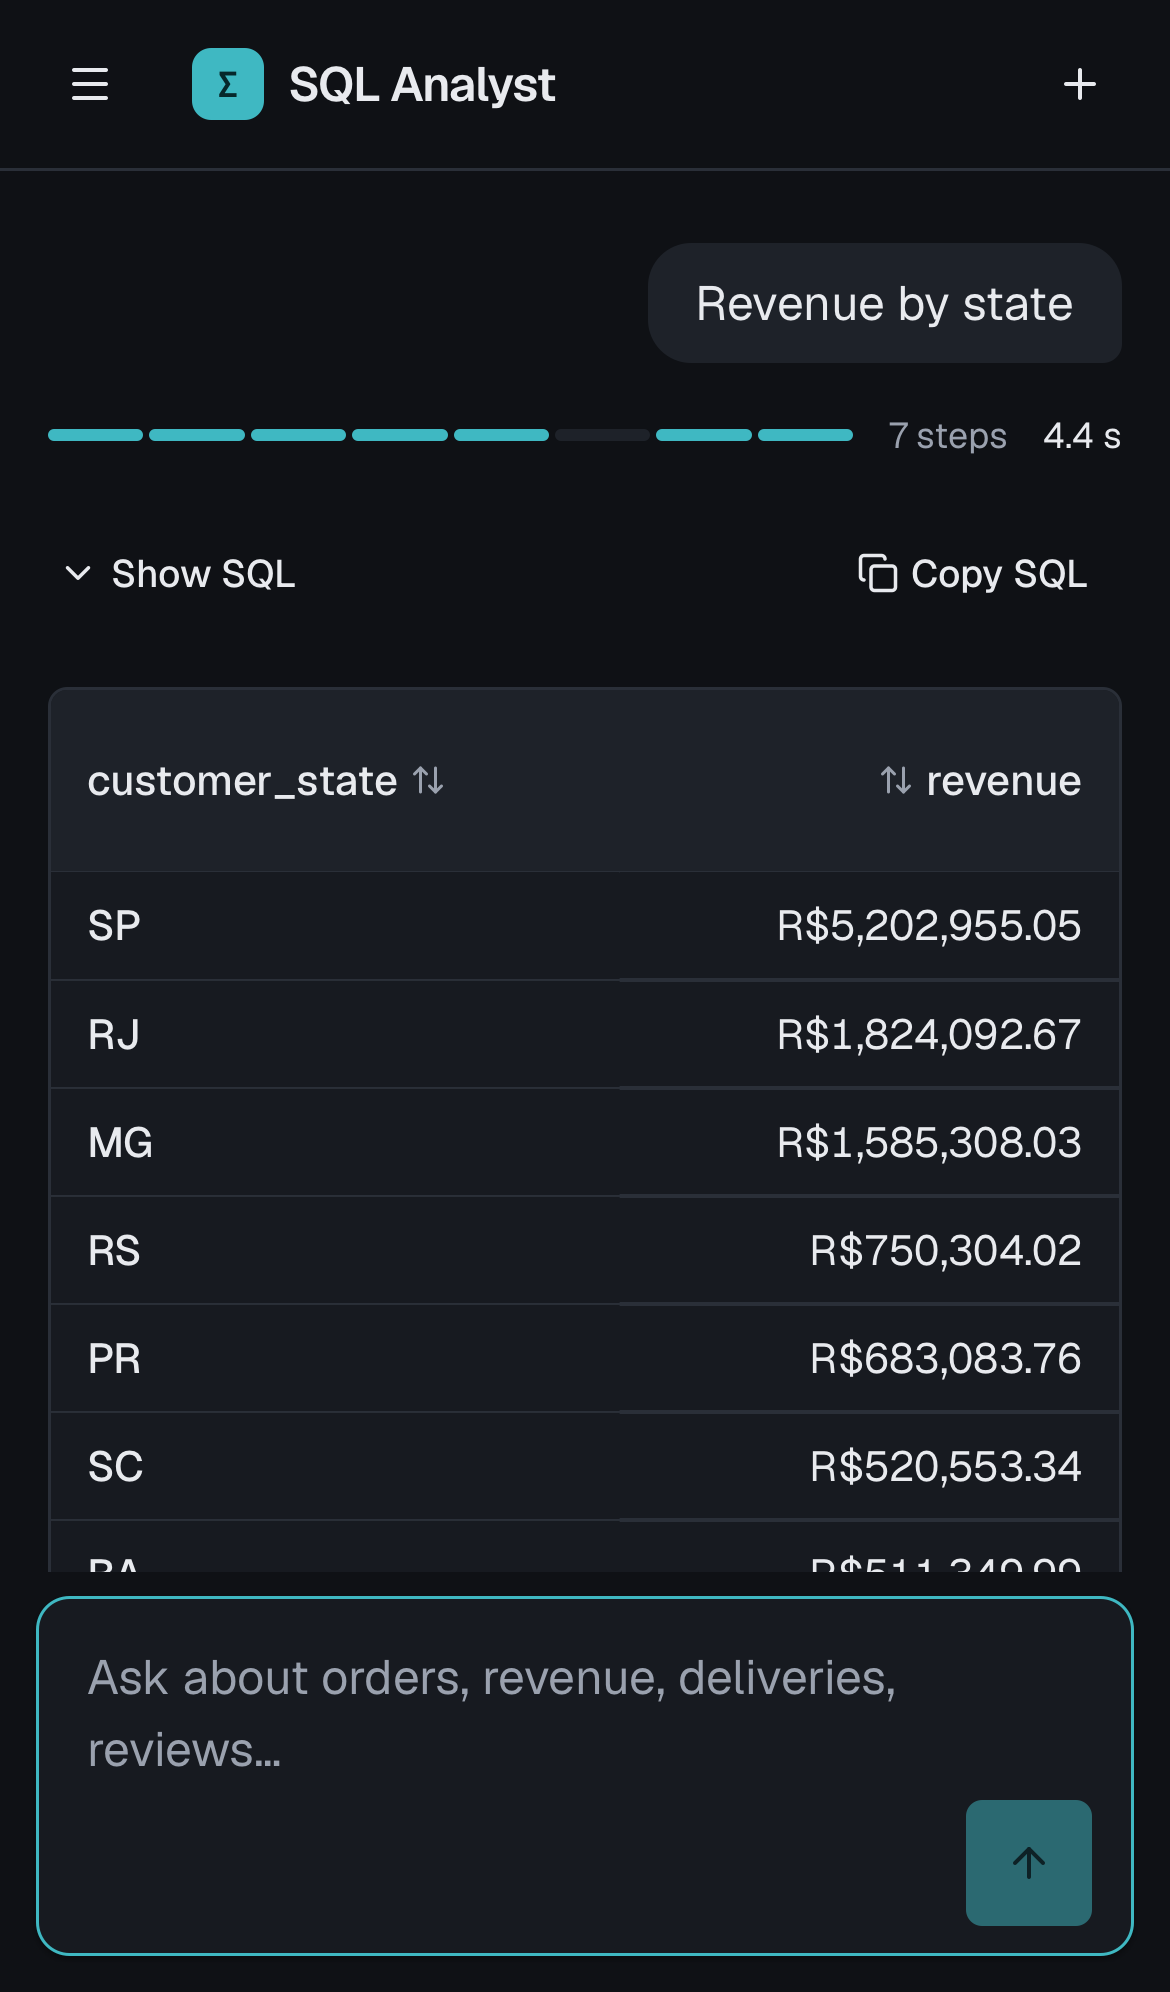
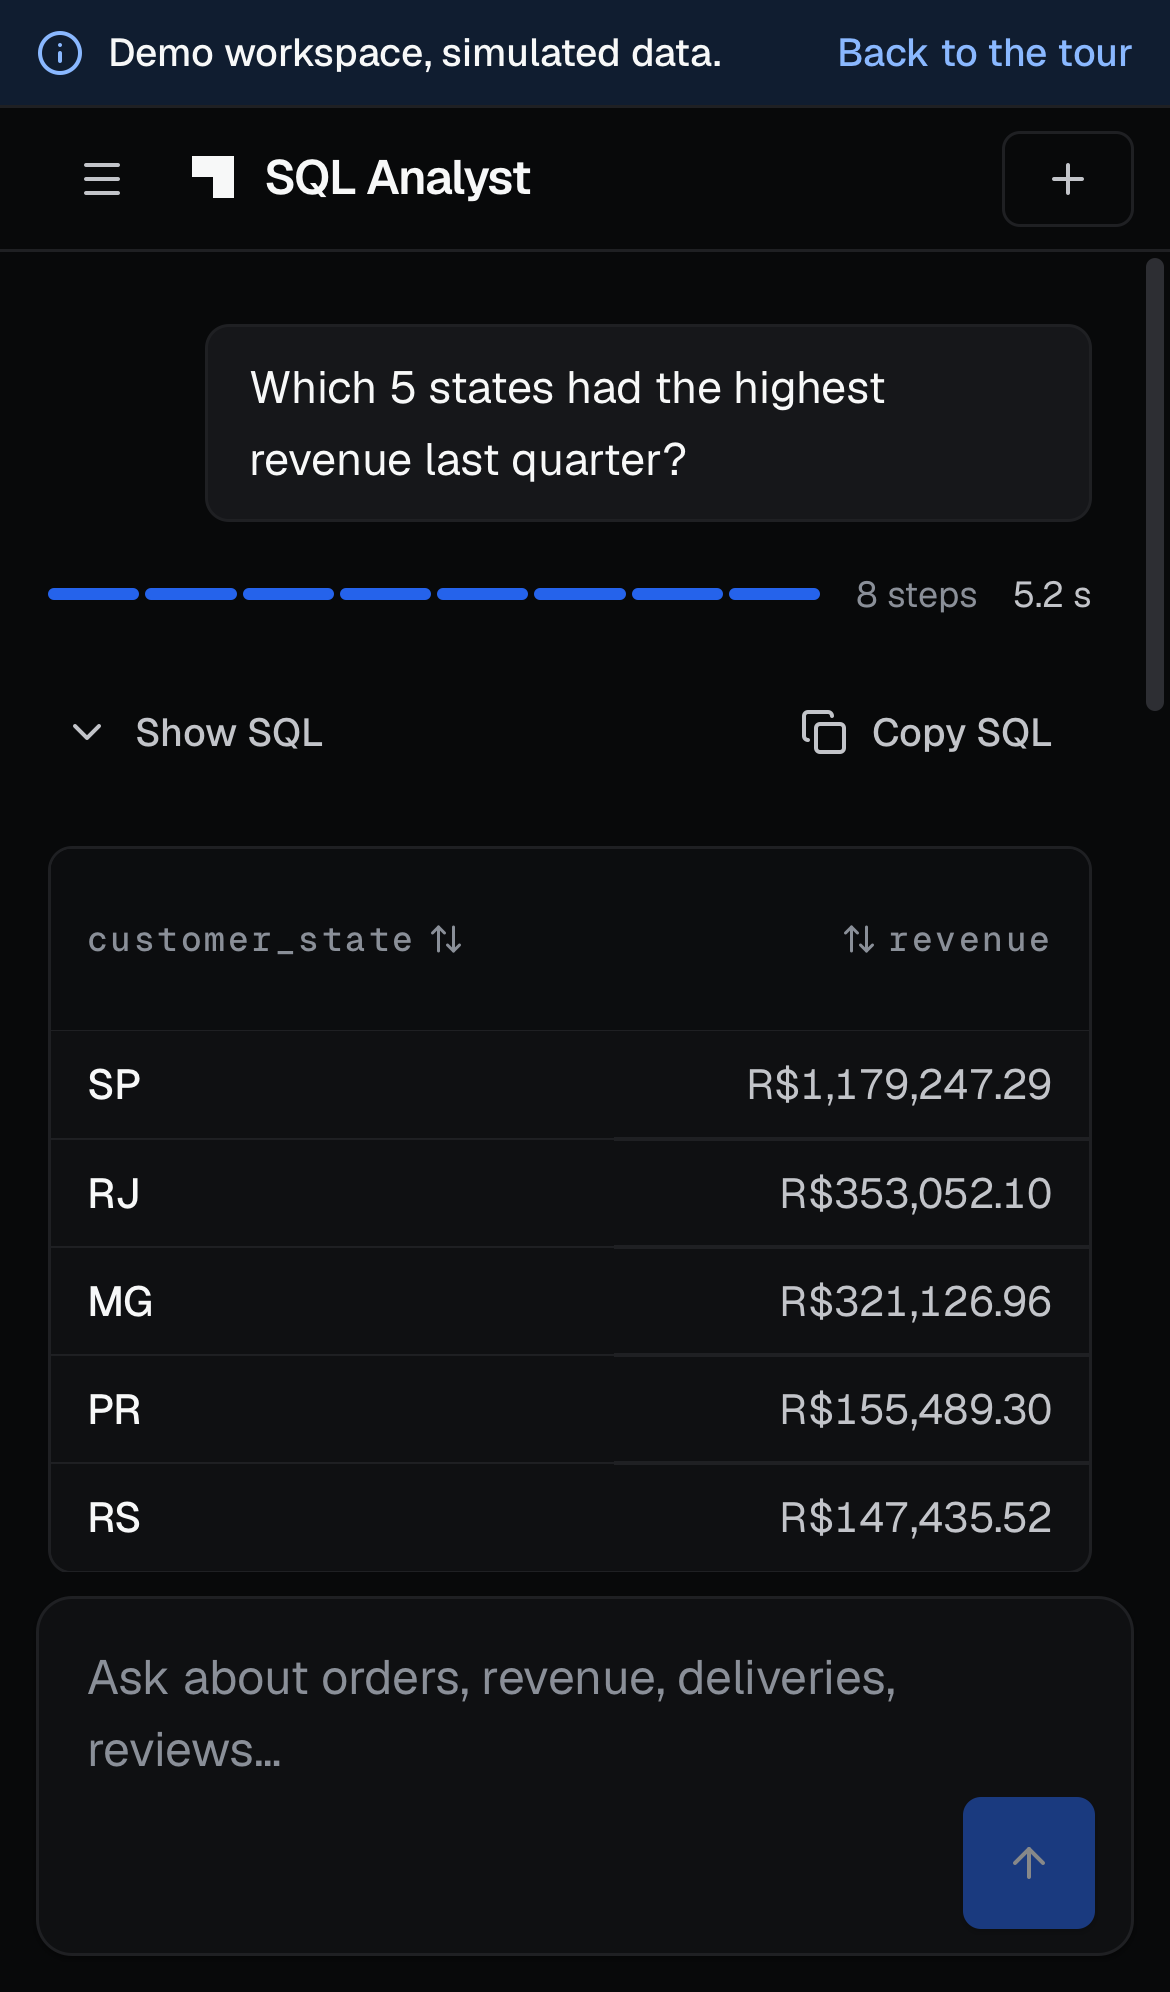
Modified images in readme

diff --git a/frontend/tests/e2e-static/fixtures.ts b/frontend/tests/e2e-static/fixtures.ts
@@ -28,8 +28,10 @@ export const test = base.extend<{ guard: { problems: string[] } }>({
           problems.push(`external request: ${url}`)
       })
       page.on("console", (m) => {
-        // The 404 page is served with status 404 on purpose.
-        if (m.type() === "error" && !/status of 404/.test(m.text())) problems.push(`console error: ${m.text()}`)
+        // The 404 page is served with status 404 on purpose. WebKit doesn't know the viewport's
+        // interactive-widget key (set in app/(product)/layout.tsx) and logs it as an error.
+        if (m.type() === "error" && !/status of 404|"interactive-widget" not recognized/.test(m.text()))
+          problems.push(`console error: ${m.text()}`)
       })
       page.on("pageerror", (e) => problems.push(`page error: ${e.message}`))
       await use({ problems })

diff --git a/README.md b/README.md
@@ -1,5 +1,7 @@
 # SQL Analyst
 
+[![Live demo: sql-analyst.pages.dev](https://img.shields.io/badge/live_demo-sql--analyst.pages.dev-2563eb?style=for-the-badge&logo=cloudflarepages&logoColor=white)](https://sql-analyst.pages.dev)
+
 Ask a business database a question in plain English and get the SQL, the numbers, a chart and a
 short explanation, with every step the agent took on show.
 
@@ -9,11 +11,11 @@ role, row-level security, a parser-based SQL guard, rate limits and a daily spen
 
 ![An answer: pipeline trail, SQL, result table and chart](docs/screenshots/answer-desktop-light.png)
 
-<sub>Screenshots come from the end-to-end test stack: real Olist data, with the deterministic test
-model writing the SQL and summary.</sub>
+<sub>Screenshots come from the live demo at
+[sql-analyst.pages.dev](https://sql-analyst.pages.dev).</sub>
 
-**Live demo (simulated data):** a static build of the frontend is ready for Cloudflare Pages but
-not deployed yet (see [Static demo](#static-demo)). It plays scripted answers in the browser: the
+**[Live demo](https://sql-analyst.pages.dev) (simulated data):** a static build of the frontend on
+Cloudflare Pages (see [Static demo](#static-demo)). It plays scripted answers in the browser: the
 result numbers come from running the same queries on the Olist data, while timings, tokens and
 cost are simulated and labelled so. Sign-ups and sign-ins are closed there.
 
@@ -40,7 +42,7 @@ cost are simulated and labelled so. Sign-ups and sign-ins are closed there.
 <table>
 <tr>
 <td><img src="docs/screenshots/answer-iphone-dark.png" alt="Answer on a phone, dark theme" width="260"></td>
-<td><img src="docs/screenshots/inspector.png" alt="Inspector: per-stage timing, tokens, trace id" width="520"></td>
+<td><img src="docs/screenshots/inspector.png" alt="Inspector: the three SQL candidates and the one chosen" width="520"></td>
 </tr>
 </table>
 
@@ -228,7 +230,7 @@ simulated throttling): Accessibility 100, Best Practices 100, SEO 100, CLS at mo
 
 ### Deploy the static demo (Cloudflare Pages)
 
-Not done yet; it needs a Cloudflare account. From `frontend/`:
+Deployed at [sql-analyst.pages.dev](https://sql-analyst.pages.dev). To redeploy, from `frontend/`:
 
 ```bash
 pnpm build:static
